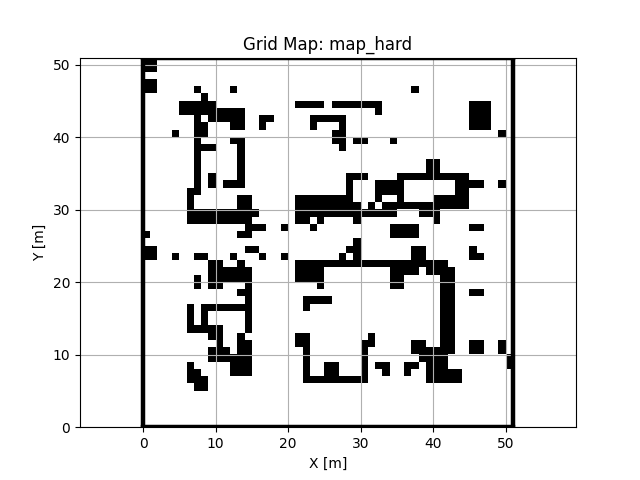
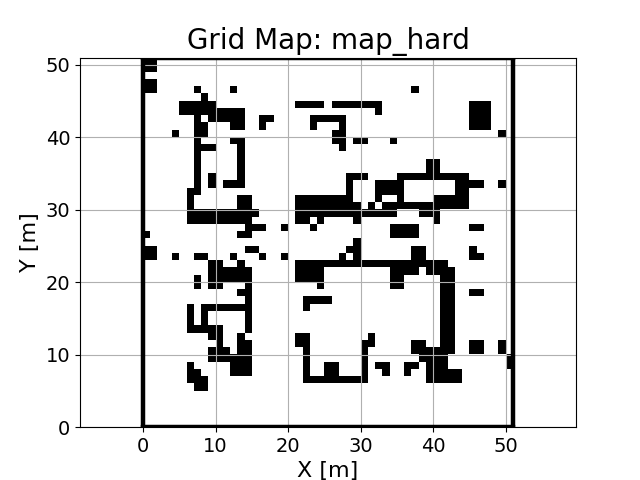
Modify: Setting plot font size

diff --git a/map/slam_grid_map.py b/map/slam_grid_map.py
@@ -74,7 +74,7 @@ class SlamGridMap(FixedGridMap):
     # Modify the plot_map method to include background image
     def plot_map(self, title, path=None):
         # Read and display background image
-        bg_image = plt.imread(self.image_path)
+        bg_image = plt.imread(self.map_edges_low_thres)
 
         plt.imshow(bg_image, extent=[0, self.width, 0, self.height], origin='lower', cmap=plt.cm.gray)
         
@@ -110,12 +110,16 @@ class SlamGridMap(FixedGridMap):
             path_x = [x for x, y in path]
             path_y = [y for x, y in path]
             plt.plot(path_x, path_y, "-or")  # Path as red connected circles
-    
-        plt.xlim(0, self.width)
-        plt.ylim(0, self.height)
-        plt.title(title)
-        plt.xlabel("X [m]")
-        plt.ylabel("Y [m]")
+
+        plt.xlim(-1, self.width + 1)
+        plt.ylim(-1, self.height + 1)
+        plt.title(title, fontsize=20)
+        plt.xticks(fontsize=14)
+        plt.yticks(fontsize=14)
+        plt.xlabel("X [m]", fontsize=16)
+        plt.ylabel("Y [m]", fontsize=16)
+        # plt.legend(fontsize=15)  
+
         plt.grid(True)
         plt.axis("equal")    
     
@@ -159,11 +163,15 @@ class SlamGridMap(FixedGridMap):
             path_y = [y for x, y in path]
             plt.plot(path_x, path_y, "-or")  # Path as red connected circles
     
-        plt.xlim(0, self.width)
-        plt.ylim(0, self.height)
-        plt.title(title)
-        plt.xlabel("X [m]")
-        plt.ylabel("Y [m]")
+        plt.xlim(-1, self.width + 1)
+        plt.ylim(-1, self.height + 1)
+        plt.title(title, fontsize=20)
+        plt.xticks(fontsize=14)
+        plt.yticks(fontsize=14)
+        plt.xlabel("X [m]", fontsize=16)
+        plt.ylabel("Y [m]", fontsize=16)
+        # plt.legend(fontsize=15)  
+
         plt.grid(True)
         plt.axis("equal")
 

diff --git a/map/fixed_grid_map.py b/map/fixed_grid_map.py
@@ -147,9 +147,13 @@ class FixedGridMap(GridMap):
 
         plt.xlim(-1, self.width + 1)
         plt.ylim(-1, self.height + 1)
-        plt.title(title)
-        plt.xlabel("X [m]")
-        plt.ylabel("Y [m]")
+        plt.title(title, fontsize=20)
+        plt.xticks(fontsize=14)
+        plt.yticks(fontsize=14)
+        plt.xlabel("X [m]", fontsize=16)
+        plt.ylabel("Y [m]", fontsize=16)
+        # plt.legend(fontsize=15)
+
         plt.grid(True)
         plt.axis("equal")
 
@@ -176,7 +180,7 @@ if __name__ == "__main__":
         obstacles = None  # Will trigger default obstacles in the class
 
     map_instance = FixedGridMap(width=width, height=height, obstacles=obstacles)
-    config_file = "map_medium"
+    config_file = "map_easy"
     map_instance.plot_map(title=f"Grid Map: {config_file}")
     plt.savefig(f"results/grid_map/map_fixedgrid_{config_file}.png")
     plt.show()
